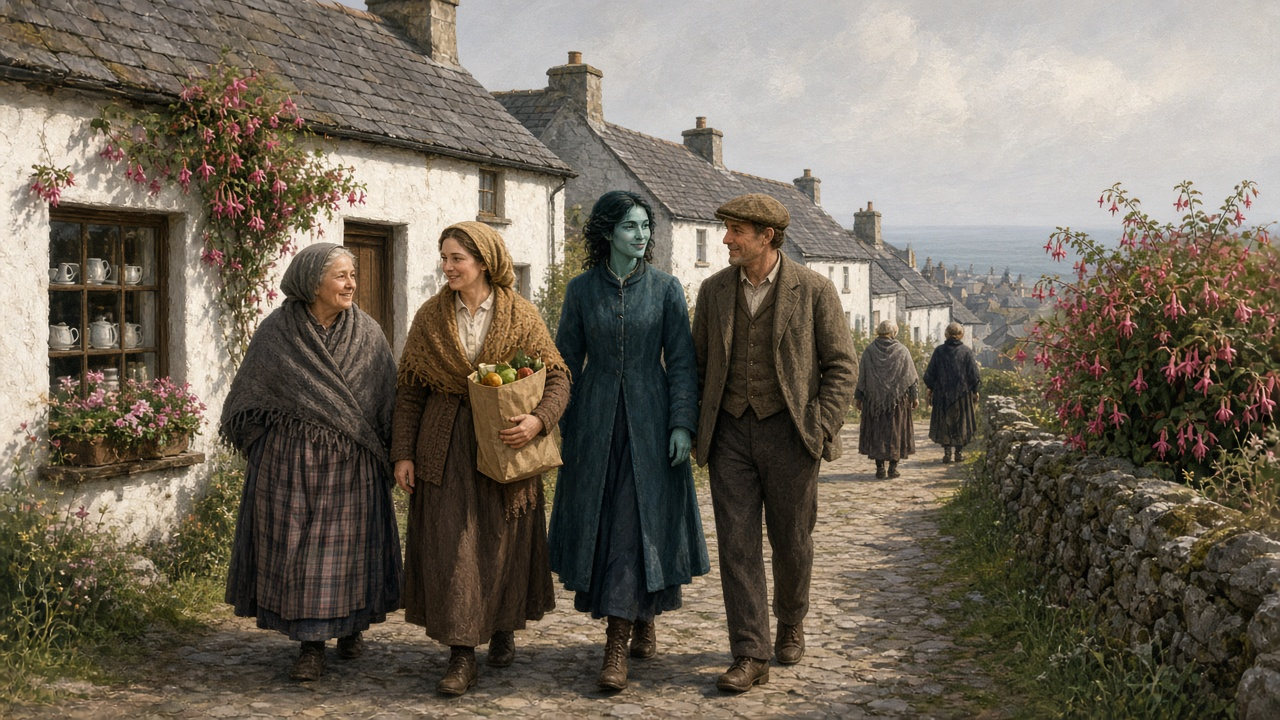
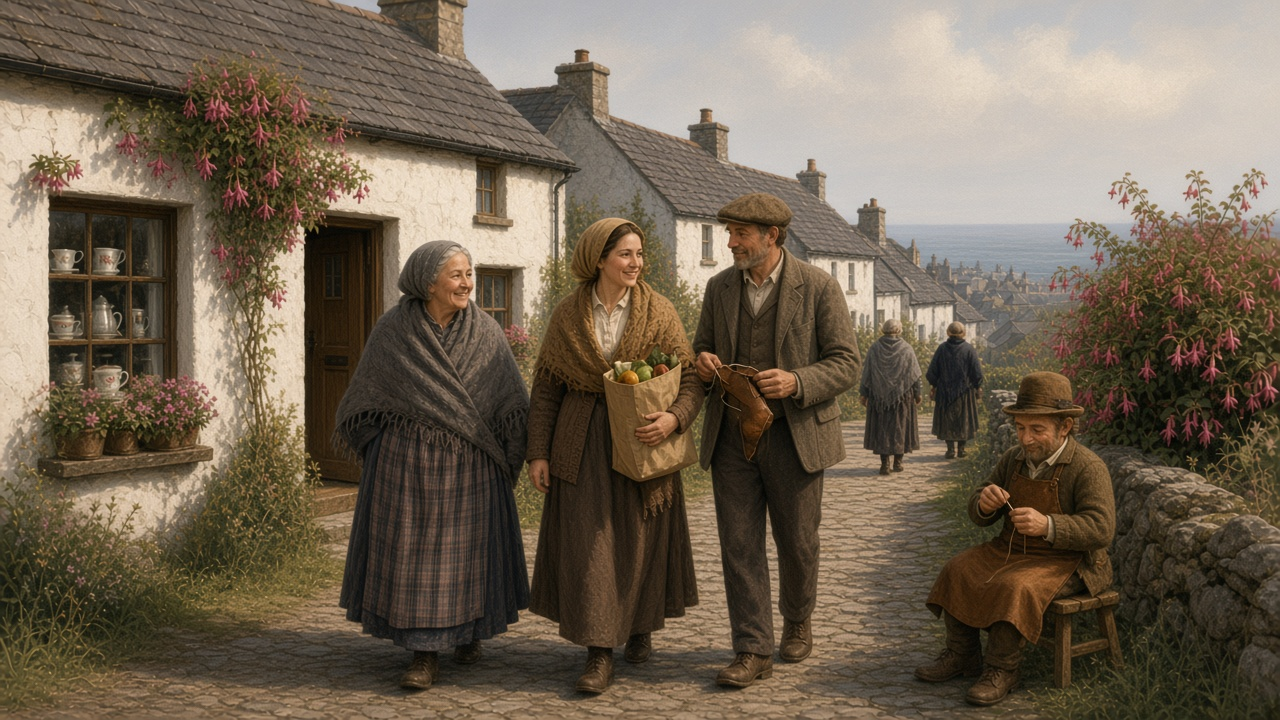
Show a cobbler on the Irish lane and a sea neighbor on the Irish shore.

diff --git a/maestrosOdyssey/www/village.js b/maestrosOdyssey/www/village.js
@@ -59,13 +59,13 @@
       homeAlt: "Elvora talks with a young person between two whitewashed cottages.",
       street: [
         "The street is one street. Whitewashed cottages, stone walls, and a small tea shop run the whole way, and people use them together.",
-        "Neighbors come along the lane with the groceries, talking as they go. A blue-green visitor walks with them, only passing through."
+        "Neighbors come along the lane with the groceries, talking as they go. A short neighbor sits by the wall, mending a shoe."
       ],
-      streetAlt: "Neighbors carry groceries along a whitewashed lane, talking, with one blue-green visitor among them.",
+      streetAlt: "Neighbors talk along a whitewashed lane, while a short neighbor mends a shoe.",
       shore: [
-        "The cove is quiet. People stand along the rocks with small nets, looking out over the clear water."
+        "The cove is quiet. People stand along the rocks with small nets, looking out over the clear water. A sea neighbor in a heavy wool coat stands with them."
       ],
-      shoreAlt: "People stand on calm rocks with small nets, looking out over the water.",
+      shoreAlt: "Neighbors stand on calm rocks with small nets, and a sea neighbor in a heavy wool coat stands with them.",
       shop: [
         "The tea shop door is open. Whitewashed walls shade the step. The shopkeeper waves neighbors in as they come up the path. A visitor comes in with them. Nobody is turned away."
       ],
@@ -1705,7 +1705,7 @@
   }
 
   function artUrl(name) {
-    return "village-art/" + (langPack().id || "es") + "/" + name + ".jpg?v=20261007q";
+    return "village-art/" + (langPack().id || "es") + "/" + name + ".jpg?v=20261008g";
   }
 
   function womanPicture(name) {

diff --git a/maestrosOdyssey/www/village.html b/maestrosOdyssey/www/village.html
@@ -21,6 +21,6 @@
     </div>
   </main>
   <script src="village-speech.js?v=20261008d"></script>
-  <script src="village.js?v=20261008d"></script>
+  <script src="village.js?v=20261008g"></script>
 </body>
 </html>
